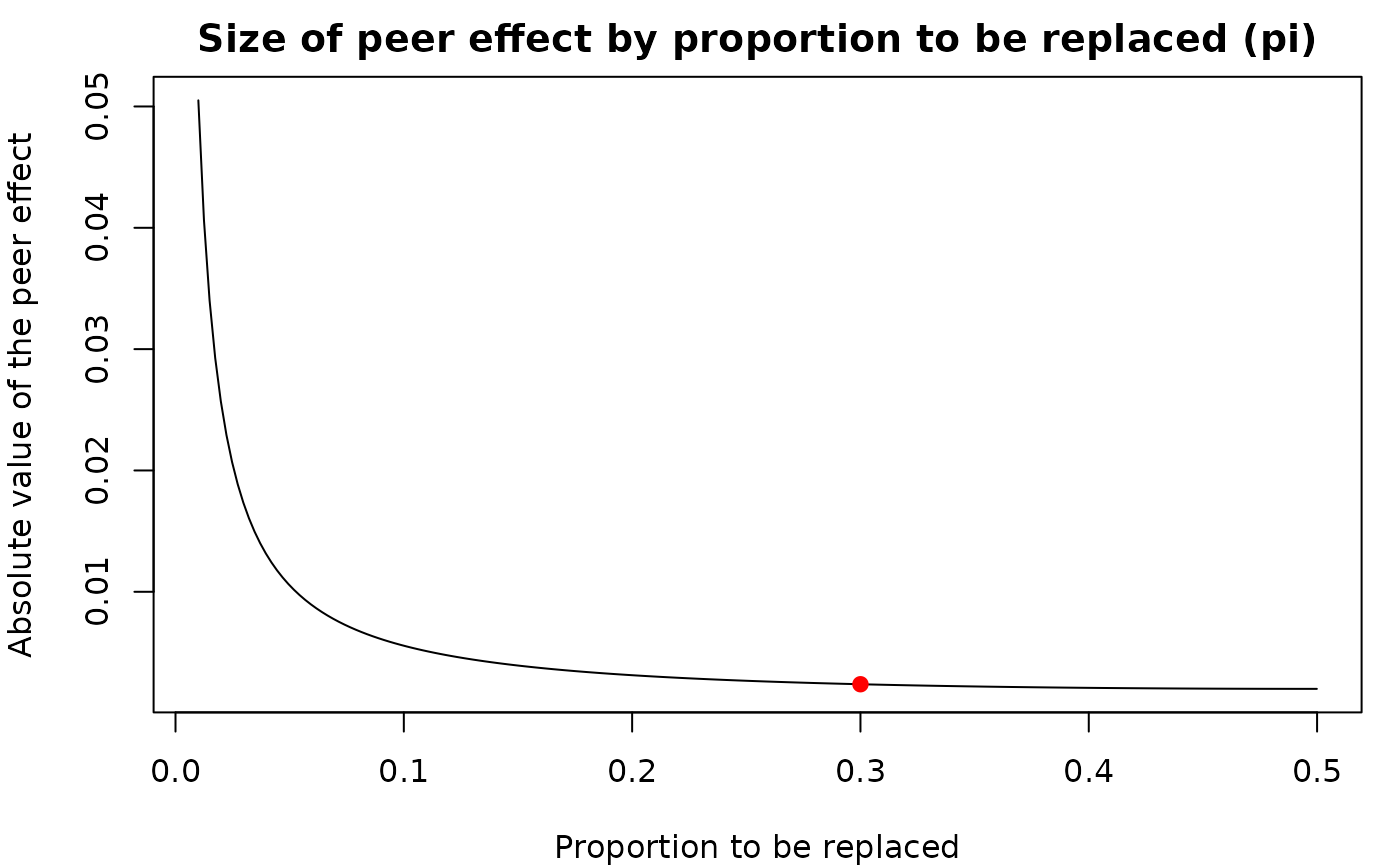
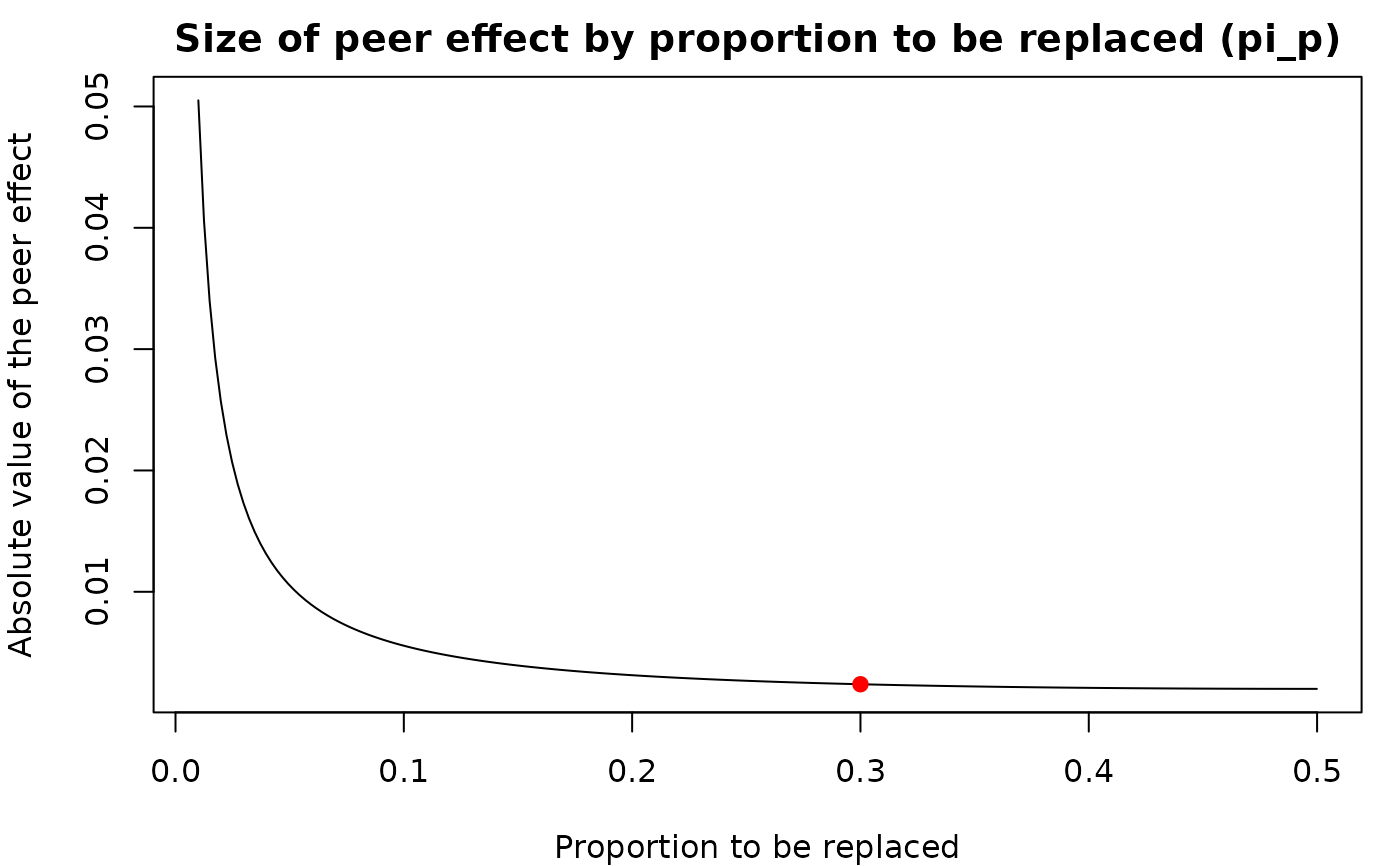
Deploying to gh-pages from @ konfound-project/konfound@f3543a699d6ca26ede25ddcf74f8419e273d3d6e 🚀

Changed region(s): [[0.1229, 0.0, 0.9521, 0.0624]]

diff --git a/articles/introduction-to-konfound.html b/articles/introduction-to-konfound.html
@@ -61,7 +61,7 @@
 Qinyun Lin, Joshua M. Rosenberg, Kenneth A. Frank, Spiro Maroulis, Wei
 Wang, Ran Xu</h4>
             
-            <h4 data-toc-skip class="date">2026-03-28</h4>
+            <h4 data-toc-skip class="date">2026-04-02</h4>
       
       <small class="dont-index">Source: <a href="https://github.com/konfound-project/konfound/blob/master/vignettes/introduction-to-konfound.Rmd" class="external-link"><code>vignettes/introduction-to-konfound.Rmd</code></a></small>
       <div class="d-none name"><code>introduction-to-konfound.Rmd</code></div>

diff --git a/reference/pkonfound.html b/reference/pkonfound.html
@@ -1165,7 +1165,7 @@ and
 <span class="r-out co"><span class="r-pr">#&gt;</span> </span>
 <span class="r-out co"><span class="r-pr">#&gt;</span> If all of the bias comes from peer spillover effects, and we assume 30% (as specified) students are distracting the others, then a peer effect of 0.002 is needed to change the evaluation. Each replaced student must have a -0.002 effect (compared to their replacements) on each of the non-replaced students to cross the threshold for evaluation.</span>
 <span class="r-out co"><span class="r-pr">#&gt;</span> </span>
-<span class="r-out co"><span class="r-pr">#&gt;</span> See the figure for combinations of size of peer effect by proportion to be replaced (pi) to change the evaluation. The red point marks the value reported above.</span>
+<span class="r-out co"><span class="r-pr">#&gt;</span> See the figure for combinations of size of peer effect by proportion to be replaced (pi_p) to change the evaluation. The red point marks the value reported above.</span>
 <span class="r-out co"><span class="r-pr">#&gt;</span> </span>
 <span class="r-out co"><span class="r-pr">#&gt;</span> The calculations and interpretation depend on your VAM model specification and estimation. See the paper for more details.</span>
 <span class="r-out co"><span class="r-pr">#&gt;</span> </span>

diff --git a/reference/pkonfound.md b/reference/pkonfound.md
@@ -1259,7 +1259,7 @@ pkonfound(est_eff = 0.14, replace_stu = 0.16, n_obs = 20, eff_thr = 0.15,
 #> 
 #> If all of the bias comes from peer spillover effects, and we assume 30% (as specified) students are distracting the others, then a peer effect of 0.002 is needed to change the evaluation. Each replaced student must have a -0.002 effect (compared to their replacements) on each of the non-replaced students to cross the threshold for evaluation.
 #> 
-#> See the figure for combinations of size of peer effect by proportion to be replaced (pi) to change the evaluation. The red point marks the value reported above.
+#> See the figure for combinations of size of peer effect by proportion to be replaced (pi_p) to change the evaluation. The red point marks the value reported above.
 #> 
 #> The calculations and interpretation depend on your VAM model specification and estimation. See the paper for more details.
 #> 